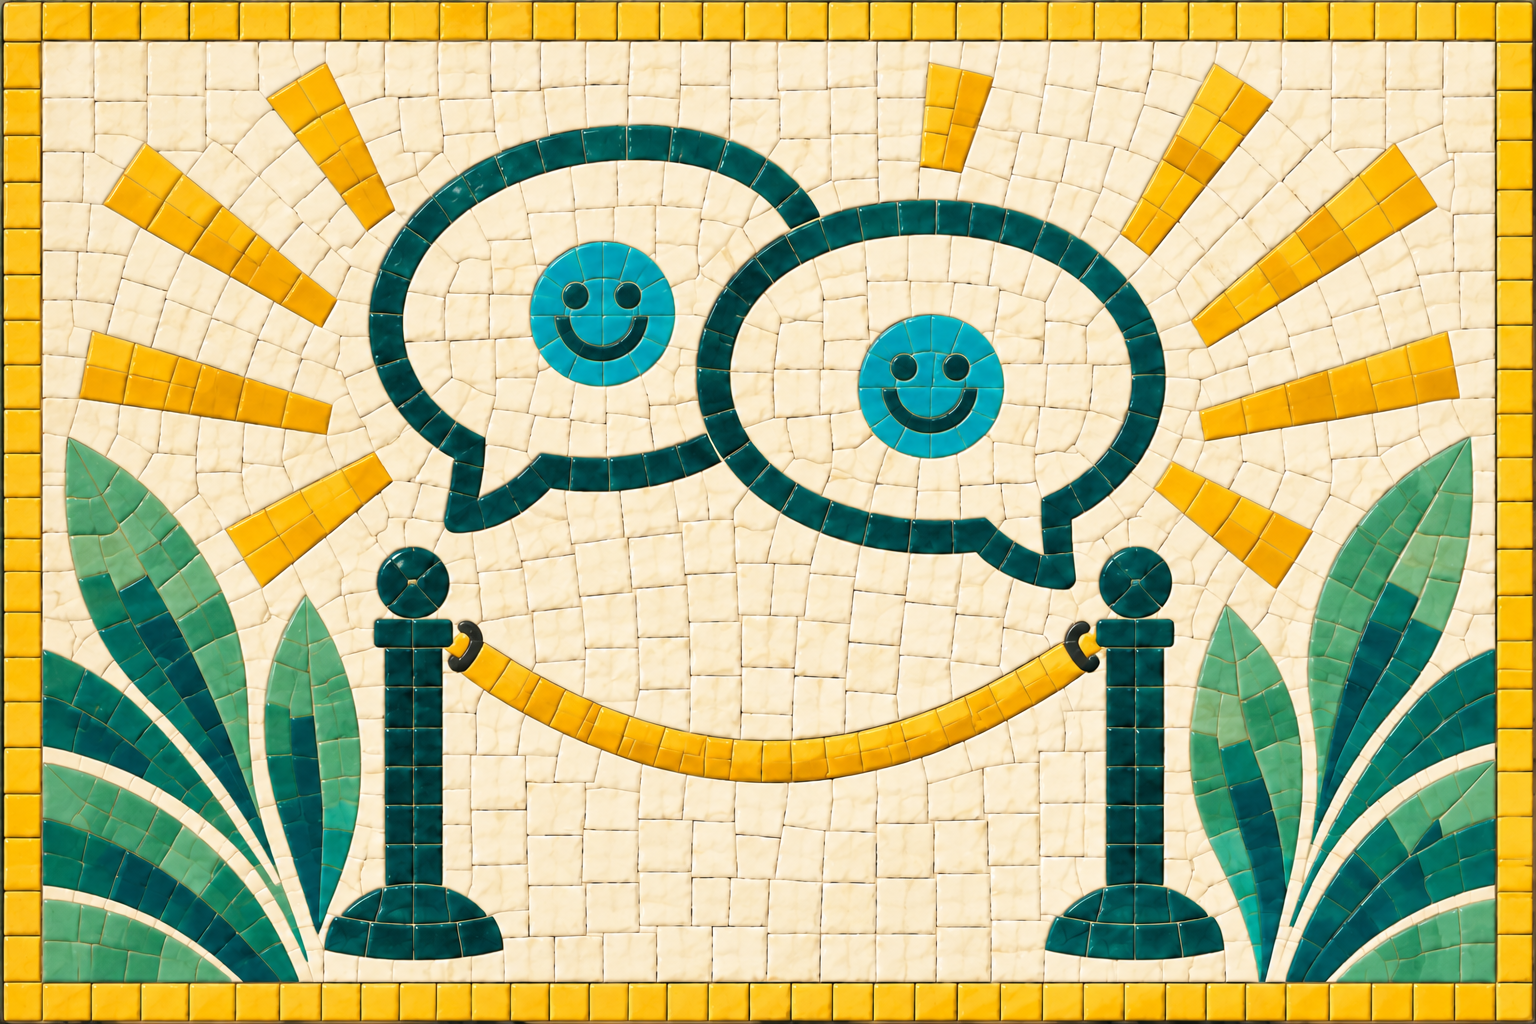
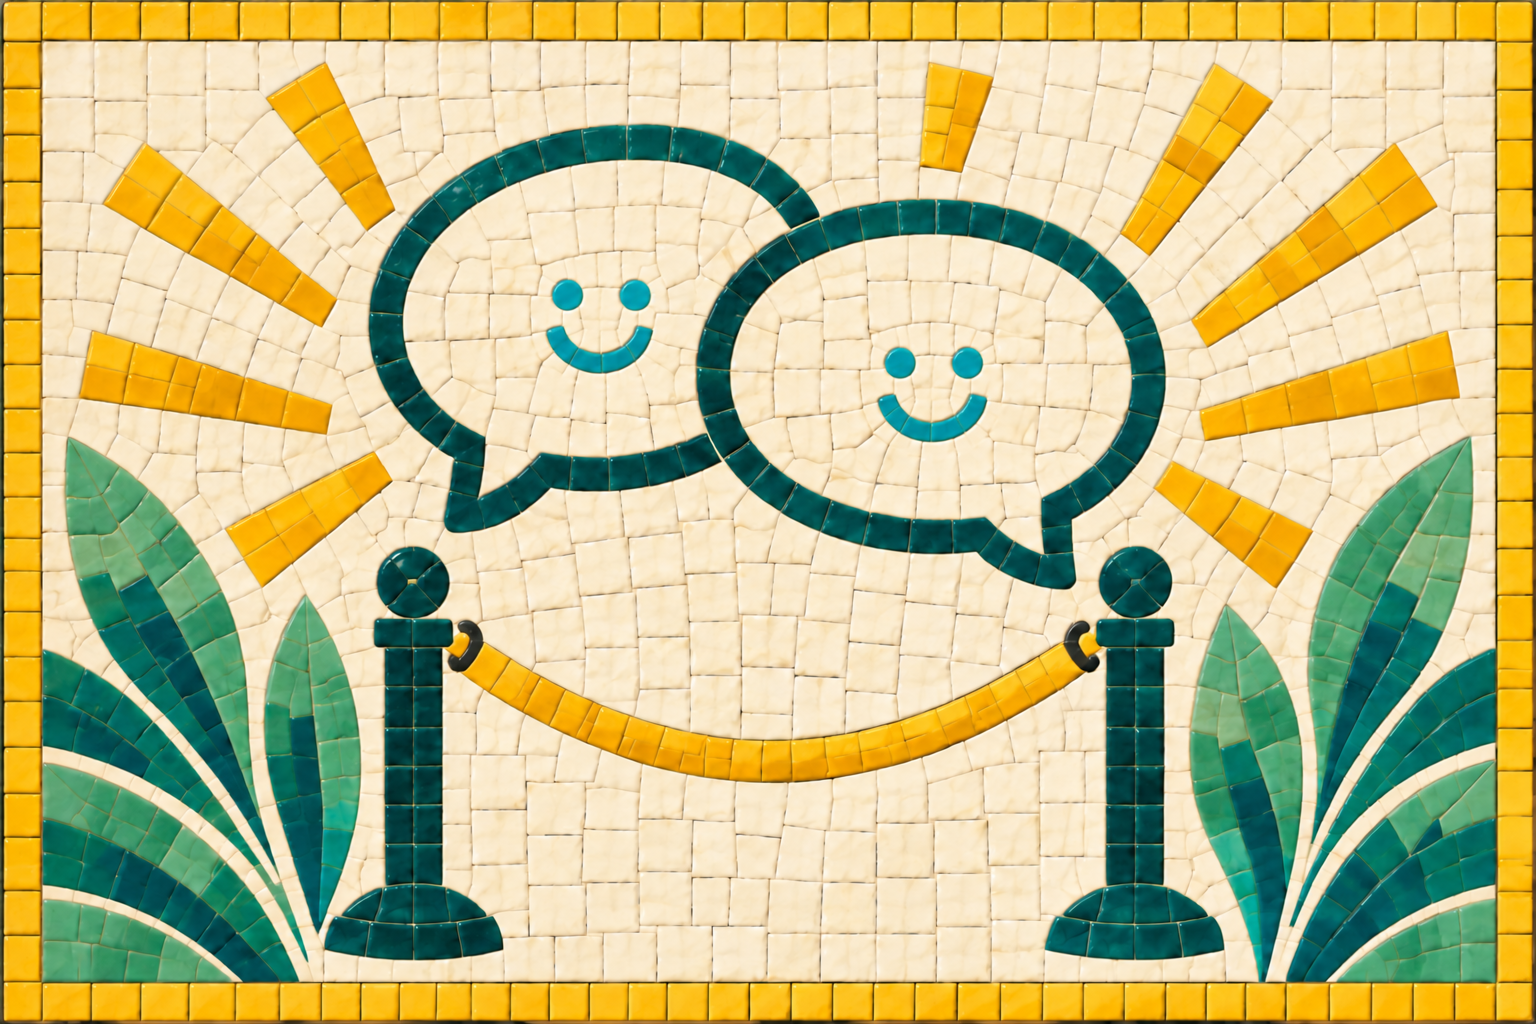
Remove face backings from Friendly Queues artwork

diff --git a/assets/source/perks/mosaic-suite-batch2/revisions-v3/review.html b/assets/source/perks/mosaic-suite-batch2/revisions-v3/review.html
@@ -1,0 +1,1 @@
+<!doctype html><meta charset="utf-8"><title>Perk revisions v3</title><style>*{box-sizing:border-box}body{margin:0;padding:20px;background:#fff4d6;color:#164e4d;font:22px Georgia}main{display:grid;grid-template-columns:repeat(2,480px);gap:20px}h2{font:22px Georgia;height:30px;margin:0 0 12px}img{display:block;width:480px;height:320px}</style><main><section><h2>Friendly Queues · blue eyes and smiles</h2><img src="friendly-queues-v3.png"></section><section><h2>Cola Fiends · abstract silhouette</h2><img src="cola-fiends-v3.png"></section></main>

diff --git a/assets/source/perks/mosaic-suite-v1/PROMPTS.md b/assets/source/perks/mosaic-suite-v1/PROMPTS.md
@@ -114,3 +114,21 @@ Palette discipline: deep teal, turquoise, sage, golden yellow and warm cream ins
 Subject: NEW Cola Fiends concept, replacing the bubble-tea cup subject entirely. A single comically wide-eyed teal festival guest bust at the centre, hunched protectively over a generic cream takeaway cola cup with a broad solid teal band, FLAT lid and bent golden drinking straw. Both simple teal hands clasp this precious drink; guest eagerly sucks on its straw, eyes wide and slightly wired in a playful 'needs their cola fix' expression. Two used empty matching paper cups, one slightly crumpled, sit at lower left, indicating a persistent cola habit. A small cutaway/open edge of the main cup reveals DARK teal-brown cola with just a few tiny cream fizz tiles at its surface. Warm golden sun accents upper right, restrained sage and teal leaf corners. The joke is compulsive cola consumption / 'coke fiend', not bubble tea. Keep bold large simple silhouettes readable small, handmade chunky ceramic tesserae with cream grout. NO domed transparent lid, NO bubble-tea pearls, NO floating balls or bubble halo, NO bottles, NO real brands, logos or wave-stripe motif. NO drug paraphernalia or powder, no lettering/numbers, no red, no amber drink. One character only. Opaque landscape 3:2 PNG1536x1024.
 
 
+
+## Friendly Queues v3 — 3 October 2026
+
+User requested blue eyes and smile directly on cream bubbles, removing face backings. Robot Workers v2 is now user-approved and unchanged. Cola Fiends v3 is a new source-only preview pending selection. The complete supplied v3 prompt record follows.
+
+# Batch 2 revision v3 prompts
+
+Built-in image_gen edits. Friendly Queues replaces the previous smiley treatment at user request; Cola Fiends is a new abstract candidate for review. Robot Workers v2 is approved and unchanged. Both new masters are 1536 × 1024 PNGs.
+
+## friendly-queues
+
+Use case: precise-object-edit. Image1 is the edit target. Change ONLY the smiley symbols inside the two cream speech bubbles. REMOVE BOTH turquoise circular face backgrounds entirely and fill their former area with matching warm cream ceramic mosaic tesserae. In each bubble draw ONLY two small TURQUOISE BLUE eyes and a simple curved TURQUOISE BLUE smiling mouth, directly on the cream bubble interior. No circle, disc, ring, outline head or coloured face backing around these three facial marks. The eyes and smile themselves are blue, not dark teal. Keep their scale legible. Preserve everything else exactly: two overlapping cream bubbles with dark teal outlines, rope posts, sagging golden rope, foliage, sun rays, golden tile border, ceramic texture and palette. No text or red. Opaque landscape 1536x1024 PNG.
+
+## cola-fiends
+
+Use case: precise-object-edit. Image1 is the edit target for a text-free mosaic perk card called Cola Fiends. Keep the protective cola-clutching pose, main cola cup and two spent cups, golden sun rays, sage and teal foliage, gold border and chunky glazed ceramic mosaic material. Replace the entire detailed human character with a MUCH MORE ABSTRACT, graphic dark-teal guest silhouette, in the same central placement. A plain round/oval featureless head, a simple rounded torso and two simplified mitten-like hands curved protectively around the cola cup. No anatomical fingers or realistic skin. NO facial features at all: no eyes, nose, lips, teeth, cheeks, eyebrows, ears, hair or facial modelling. Slightly hunch the simple head towards the golden straw to suggest compulsive sipping / needing their cola fix. Make it read as an elegant playful symbolic icon rather than a cartoon portrait. Main cup: cream paper with teal band, dark teal-brown cola visible at rim, bent golden straw; spent cups at lower left indicate a cola habit. No bubble-tea pearls or floating bubbles, no drugs, no brands, no text, no red. Landscape3:2 opaque PNG1536x1024; all edges and border visible.
+
+

diff --git a/assets/source/perks/mosaic-suite-batch2/revisions-v3/PROMPTS.md b/assets/source/perks/mosaic-suite-batch2/revisions-v3/PROMPTS.md
@@ -1,0 +1,12 @@
+# Batch 2 revision v3 prompts
+
+Built-in image_gen edits. Friendly Queues replaces the previous smiley treatment at user request; Cola Fiends is a new abstract candidate for review. Robot Workers v2 is approved and unchanged. Both new masters are 1536 × 1024 PNGs.
+
+## friendly-queues
+
+Use case: precise-object-edit. Image1 is the edit target. Change ONLY the smiley symbols inside the two cream speech bubbles. REMOVE BOTH turquoise circular face backgrounds entirely and fill their former area with matching warm cream ceramic mosaic tesserae. In each bubble draw ONLY two small TURQUOISE BLUE eyes and a simple curved TURQUOISE BLUE smiling mouth, directly on the cream bubble interior. No circle, disc, ring, outline head or coloured face backing around these three facial marks. The eyes and smile themselves are blue, not dark teal. Keep their scale legible. Preserve everything else exactly: two overlapping cream bubbles with dark teal outlines, rope posts, sagging golden rope, foliage, sun rays, golden tile border, ceramic texture and palette. No text or red. Opaque landscape 1536x1024 PNG.
+
+## cola-fiends
+
+Use case: precise-object-edit. Image1 is the edit target for a text-free mosaic perk card called Cola Fiends. Keep the protective cola-clutching pose, main cola cup and two spent cups, golden sun rays, sage and teal foliage, gold border and chunky glazed ceramic mosaic material. Replace the entire detailed human character with a MUCH MORE ABSTRACT, graphic dark-teal guest silhouette, in the same central placement. A plain round/oval featureless head, a simple rounded torso and two simplified mitten-like hands curved protectively around the cola cup. No anatomical fingers or realistic skin. NO facial features at all: no eyes, nose, lips, teeth, cheeks, eyebrows, ears, hair or facial modelling. Slightly hunch the simple head towards the golden straw to suggest compulsive sipping / needing their cola fix. Make it read as an elegant playful symbolic icon rather than a cartoon portrait. Main cup: cream paper with teal band, dark teal-brown cola visible at rim, bent golden straw; spent cups at lower left indicate a cola habit. No bubble-tea pearls or floating bubbles, no drugs, no brands, no text, no red. Landscape3:2 opaque PNG1536x1024; all edges and border visible.
+

diff --git a/briefs/results/perk-mosaic-batch2.md b/briefs/results/perk-mosaic-batch2.md
@@ -1,5 +1,13 @@
 # Perk mosaic batch 2 integration
 
+## Requested revision 3 — 3 October 2026
+
[1 lines of base64/hex data omitted]
+
+Package/reviews and [v3 prompt/history](../../assets/source/perks/mosaic-suite-batch2/revisions-v3/INTEGRATION.md) are preserved. Robot Workers user approval is recorded; the new abstract Cola Fiends v3 candidate remains source/review only pending selection. No new generation, gameplay/layout change or EXE during integration.
+
+Fourteen focused tests pass; all fourteen PNG/SVG imports load in Godot; all eighteen refreshed previews have exact requested dimensions. [Revision 3 evidence](../../reports/evidence/perk-mosaic-batch2/revision3/). Older records below are historical.
+
 ## Requested revision 2 — 3 October 2026
 
 Updated only Friendly Queues and Robot Workers runtime PNGs: smileys replace the dots; the robot clipboard is removed. Corresponding active manifest subjects/hashes and both SVG fallbacks now match. Other twelve PNGs/card entries, including canonical Cola Fiends, were checked unchanged. User approval of Beer Festival, Bring Your Own Bottle and Alcoholics is recorded in the manifest; the edited two are recorded as requested revisions, not a new user aesthetic endorsement.

diff --git a/assets/source/DESIGN_INDEX.md b/assets/source/DESIGN_INDEX.md
@@ -12,6 +12,8 @@ Perk mosaic batch 2 adds six existing-catalogue artworks under user-requested in
 
 Batch 2 revision: user approved Beer Festival, Bring Your Own Bottle and Alcoholics; requested Friendly Queues smileys and clipboard-free Robot Workers are integrated. The new Cola Fiends candidate remains source/review only pending selection, with canonical runtime unchanged. [Revision scope](perks/mosaic-suite-batch2/revisions-v2/INTEGRATION.md).
 
+Latest batch 2 revision supersedes the circular Friendly Queues faces with blue eyes and smiles directly on cream bubbles. Robot Workers v2 is user-approved and unchanged. Cola Fiends v3 stays preview-only pending selection. [Current revision scope](perks/mosaic-suite-batch2/revisions-v3/INTEGRATION.md).
+
 | Design / repo copy | Current status | Implementation / supersession |
 | --- | --- | --- |
 | [Build mode board and handoff](ui/build-mode-concept-v1/HANDOFF.md) · [image](ui/build-mode-concept-v1/build-mode-design-board.png) · [prompt](ui/build-mode-concept-v1/PROMPTS.md) | Approved direction, **implemented** within R0.05v/w | [Build result](../../briefs/results/R0.05v-build-mode.md); Debug origin diagnostic and default/open behavior [follow-up](../../briefs/results/R0.05w-build-entry-toilet-followup.md). Image prices/layout were illustrative; runtime/validation own facts. |

diff --git a/assets/source/perks/mosaic-suite-batch2/revisions-v3/INTEGRATION.md b/assets/source/perks/mosaic-suite-batch2/revisions-v3/INTEGRATION.md
@@ -1,0 +1,7 @@
+# Friendly Queues v3 integrated
+
[1 lines of base64/hex data omitted]
+
+The runtime and canonical repo SVG fallback match the new symbol. Queue v2 PNG/SVG are archived under `originals/`; older revisions remain preserved. The producer art workspace is unchanged by integration. Robot Workers v2 is now user-approved and remains unchanged, as do the other thirteen runtime PNGs and their card entries.
+
+`cola-fiends-v3.png` is an abstract replacement candidate pending user selection. It is preserved only in source/reviews; neither canonical Cola artwork nor its runtime/manifest card entry uses it. Earlier Cola v2 also remains a historical preview, not approved production. No gameplay, native layout or executable change.
